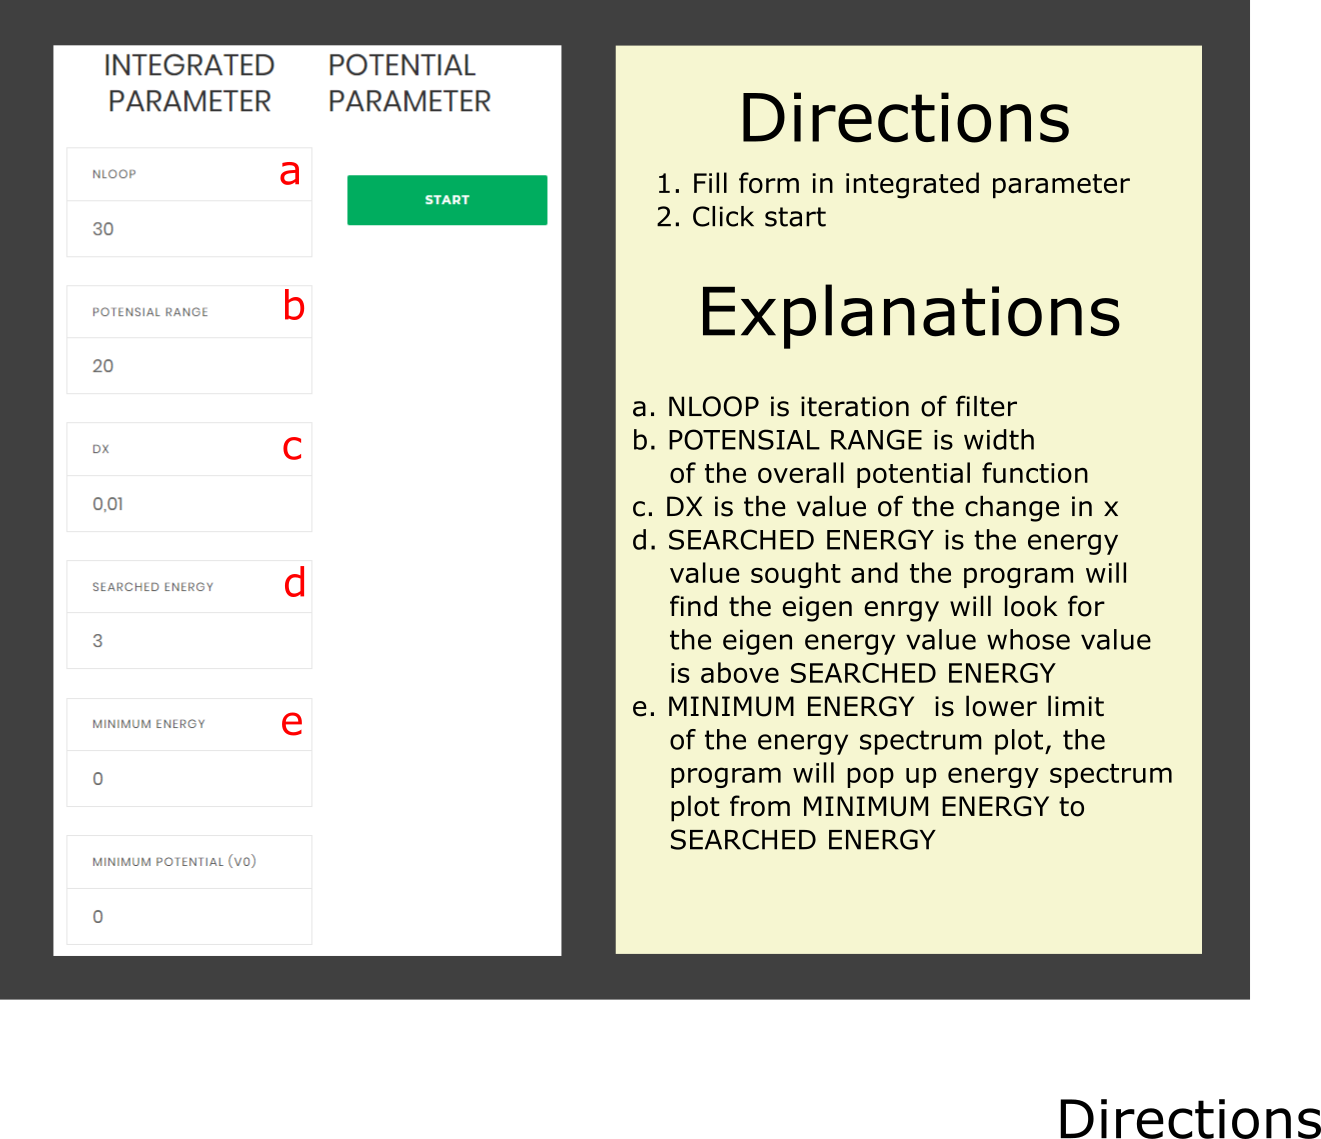
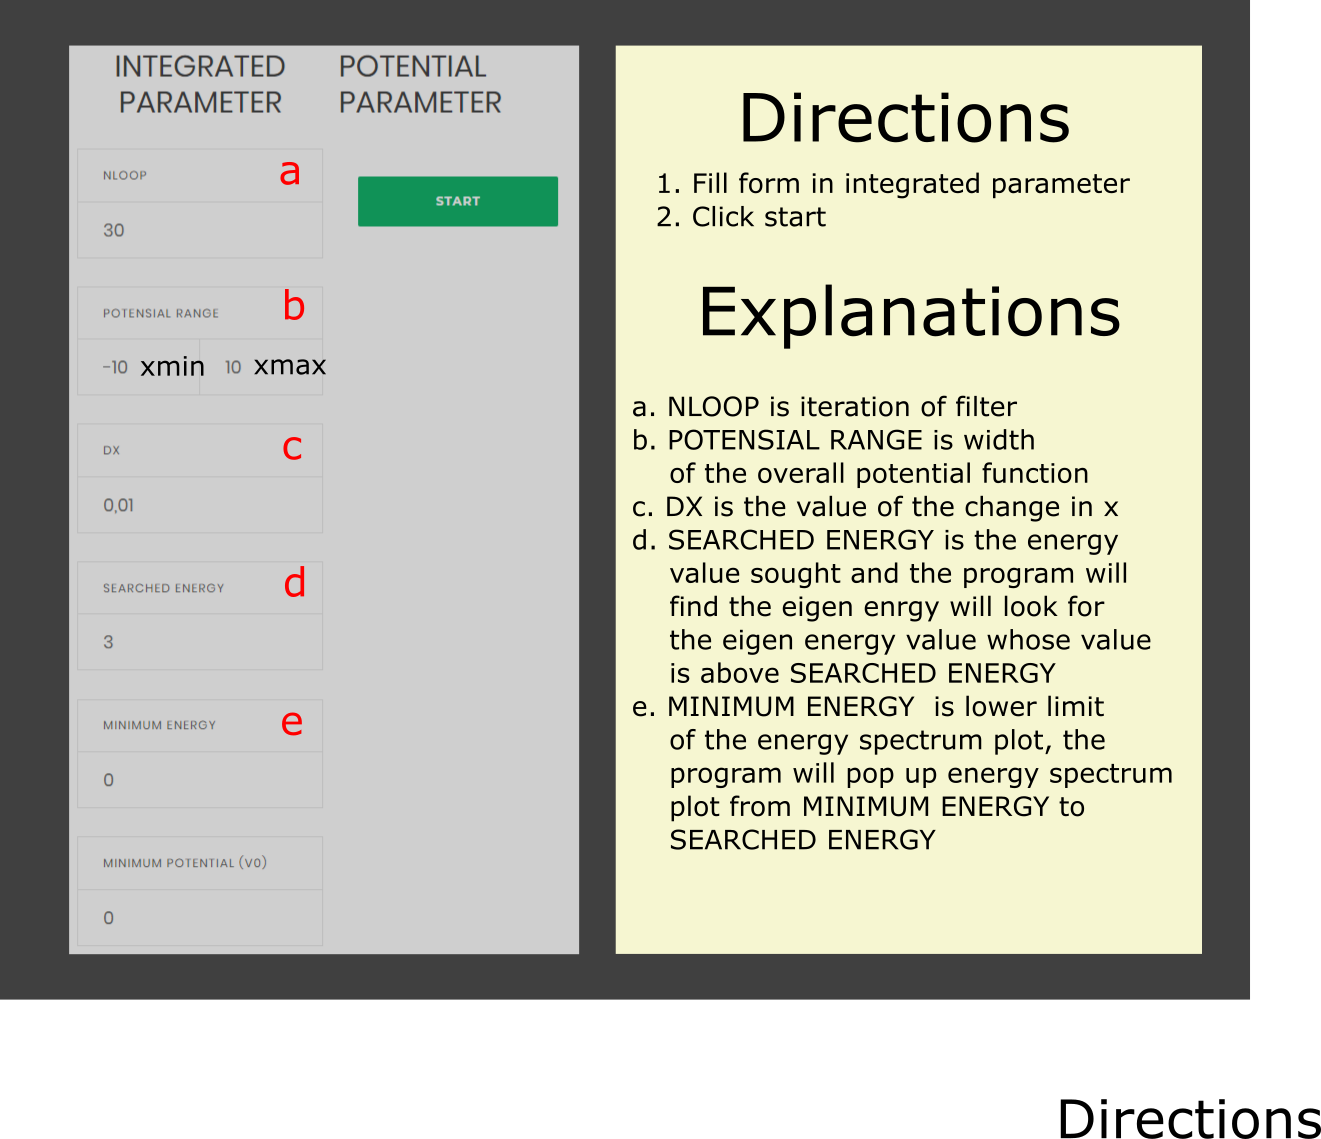
back to xmax xmin

diff --git a/filter/workPro/runPro.js b/filter/workPro/runPro.js
@@ -3,17 +3,19 @@
 
 function run() {
     let nloop   = parseFloat(document.getElementById('nloop').value),
-        leb      = parseFloat(document.getElementById('potRange').value)
+        xmin      = parseFloat(document.getElementById('xmin').value),
+        xmax      = parseFloat(document.getElementById('xmax').value),
+        // leb      = parseFloat(document.getElementById('potRange').value)
         dx      = parseFloat(document.getElementById('dx').value),
         initE   = parseFloat(document.getElementById('initE').value),
         minE    = parseFloat(document.getElementById('minE').value),
         v0      = parseFloat(document.getElementById('v0').value);
 
-    
+    leb = xmax - xmin;
     ngrid   = leb/dx;
 
-    xmin = -(leb/2)
-    xmax = (leb/2)
+    // xmin = -(leb/2)
+    // xmax = (leb/2)
 
     efunction   = []
     collectEf   = []
@@ -53,7 +55,7 @@ function run() {
         //Elevel(initE,potHarm,argPot)
 
         elevPlaceholder.innerHTML = `
-        <h1 class="text-light">Level energy: <span id="Elev"></span> </h1>
+        <h1 class="text-light">Energy Level Count: <span id="Elev"></span> </h1>
         `
         Elev.innerHTML = eLevel;
         
@@ -73,7 +75,7 @@ function run() {
         //Elevel(initE,potTri,argPot)
 
         elevPlaceholder.innerHTML = `
-        <h1 class="text-light">Level energy: <span id="Elev"></span> </h1>
+        <h1 class="text-light">Energy Level Count: <span id="Elev"></span> </h1>
         `
         Elev.innerHTML = eLevel;
 
@@ -93,7 +95,7 @@ function run() {
         //Elevel(initE,potTri,argPot)
 
         elevPlaceholder.innerHTML = `
-        <h1 class="text-light">Level energy: <span id="Elev"></span> </h1>
+        <h1 class="text-light">Energy Level Count: <span id="Elev"></span> </h1>
         `
         Elev.innerHTML = eLevel;
 
@@ -111,7 +113,7 @@ function run() {
         //Elevel(initE,potHarm,argPot)
 
         elevPlaceholder.innerHTML = `
-        <h1 class="text-light">Level energy: <span id="Elev"></span> </h1>
+        <h1 class="text-light">Energy Level Count: <span id="Elev"></span> </h1>
         `
         Elev.innerHTML = eLevel;
         
@@ -217,8 +219,8 @@ function run() {
         potPeri = new Vpot2
         potPeri = potPeri.triangular(argPeriPot,argPot)
 
-        indexMiniX_start = x.indexOf(2*((xmax-((xmax-xmin)/2))-lpt))
-        indexMiniX_end = x.indexOf(2*((xmax-((xmax-xmin)/2))+lpt))
+        indexMiniX_start = x.indexOf((xmax-(xmax-xmin)/2)-2*lpt)
+        indexMiniX_end = x.indexOf((xmax-(xmax-xmin)/2)+2*lpt)
 
         //getDeltaSpekE(minE,vpot,argPot)
         //getEnergy(initE,potPeri,argPot);
@@ -313,7 +315,7 @@ function run() {
         xt1 = [];
 
     for (let index = 0; index < spekE.length; index++) {
-        xt.push(0)
+        xt.push((xmax-(xmax-xmin)/2))
         xt1.push(100)
     }
     // console.log(xt,xt1)
@@ -358,7 +360,7 @@ function run() {
             },
         annotations: [
         {
-            x: -(xmax-xmin)/2,
+            x: xmin,
             y: Math.min.apply(null, vpot),
             xref: 'x',
             yref: 'y',
@@ -372,7 +374,7 @@ function run() {
                 }
         },
         {
-            x: (xmax-xmin)/2,
+            x: xmax,
             y: Math.min.apply(null, vpot),
             xref: 'x',
             yref: 'y',
@@ -386,7 +388,7 @@ function run() {
                 }
         },
         {
-            x: -(xmax-xmin)/2,
+            x: (xmax-xmin)/2,
             y: Math.max.apply(null, vpot),
             xref: 'x',
             yref: 'y',

diff --git a/index.html b/index.html
@@ -41,7 +41,7 @@
 						<span class="focus-input100"></span>
 					</div>
 
-					<!-- <label class="label-input100" for="xmin">Potensial range</label>
+					<label class="label-input100" for="xmin">Potensial range</label>
 					<div class="wrap-input100 rs1-wrap-input100 validate-input" data-validate="xmin must a number and below xmax">
 						<input id="xmin" class="input100" type="number" name="xmin" placeholder="xmin" value="-10">
 						<span class="focus-input100"></span>
@@ -49,13 +49,13 @@
 					<div class="wrap-input100 rs2-wrap-input100 validate-input" data-validate="xmax must a number and above xmin">
 						<input id="xmax" class="input100" type="number" name="xmax" placeholder="xmax" value="10">
 						<span class="focus-input100"></span>
-					</div> -->
+					</div>
 
-					<label class="label-input100" for="potRange">Potensial Range</label>
+					<!-- <label class="label-input100" for="potRange">Potensial Range</label>
 					<div class="wrap-input100 validate-input" data-validate = "dx must a positive number and not a zero">
 						<input id="potRange" class="input100" type="number" name="potRange" placeholder="20" value="20">
 						<span class="focus-input100"></span>
-					</div>
+					</div> -->
 
 					<label class="label-input100" for="dx">dx</label>
 					<div class="wrap-input100 validate-input" data-validate = "dx must a positive number and not a zero">

diff --git a/filter/workPro/filter.js b/filter/workPro/filter.js
@@ -271,22 +271,23 @@ function spekEnergy(minE,initE,vpot,argPot) {
         // console.log(collectEf)
         // console.log(efunction[1000])
         // if (minE <= 0) {
-        //     sie = 0.1
+        //     sie = (energy_new - minE)
         // } else {
-        //     if (energy_new <= 1 && energy_new > 0) {
-        //         if (energy_new <= 0.5) {
-        //             sie = (energy_new - minE)*energy_new
-        //         } else if (energy_new > 0.5){
-        //             sie = (energy_new - minE)*minE
-        //         }
-        //     } else if (energy_new > 1) {
-        //             sie = (energy_new - minE)/energy_new
-        //     } 
-        // }
+            // if (energy_new <= 1 && energy_new > 0) {
+            //     if (energy_new <= 0.5) {
+            //         sie = (energy_new - minE)*energy_new
+            //     } else if (energy_new > 0.5){
+            //         sie = (energy_new - minE)*minE
+            //     }
+            // } else if (energy_new > 1) {
+            //         sie = (energy_new - minE)/energy_new
+            // } 
+        
         //else if (energy_new <= 0) {
         //     sie = 0.1
         // }
-        sie = 0.1
+        // sie = 0.1
+        sie = 0.001
         
 
         minE = energy_new + sie;

diff --git a/filter/singlePotential/singlePotential.js b/filter/singlePotential/singlePotential.js
@@ -12,7 +12,7 @@ class Vpot {
         om    = argHar[0];
     
     for (let i = 0; i < ngrid; i++) { 
-      x[i] = (-(xmax-xmin)/2) + ((i)  * dx);
+      x[i] = xmin + ((i)  * dx);
         //console.log(x[i]);
 
       vpot[i] = (0.5 * om * x[i] * x[i]) + v0
@@ -33,7 +33,7 @@ class Vpot {
         var xkan = xmax - tt;
     
     for (let i = 0; i < ngrid; i++) { 
-      x[i] = (xmax-(xmax-xmin)) + ((i)  * dx);
+      x[i] = xmin + ((i)  * dx);
         //console.log(x[i]);
 
       if (x[i] < tt) {
@@ -62,7 +62,7 @@ class Vpot {
         tt    = argTri[1];
     
     for (let i = 0; i < ngrid; i++) { 
-      x[i] = (xmax-(xmax-xmin)) + ((i)  * dx);
+      x[i] = xmin + ((i)  * dx);
         //console.log(x[i]);
 
       if (x[i] < tt) {
@@ -91,7 +91,7 @@ class Vpot {
         om    = argHar[0];
     
     for (let i = 0; i < ngrid; i++) { 
-      x[i] = (xmax-(xmax-xmin)) + ((i)  * dx);
+      x[i] = xmin + ((i)  * dx);
         //console.log(x[i]);
       // if (x[i] == 0) {
       //     x[i] = 1e-2;
